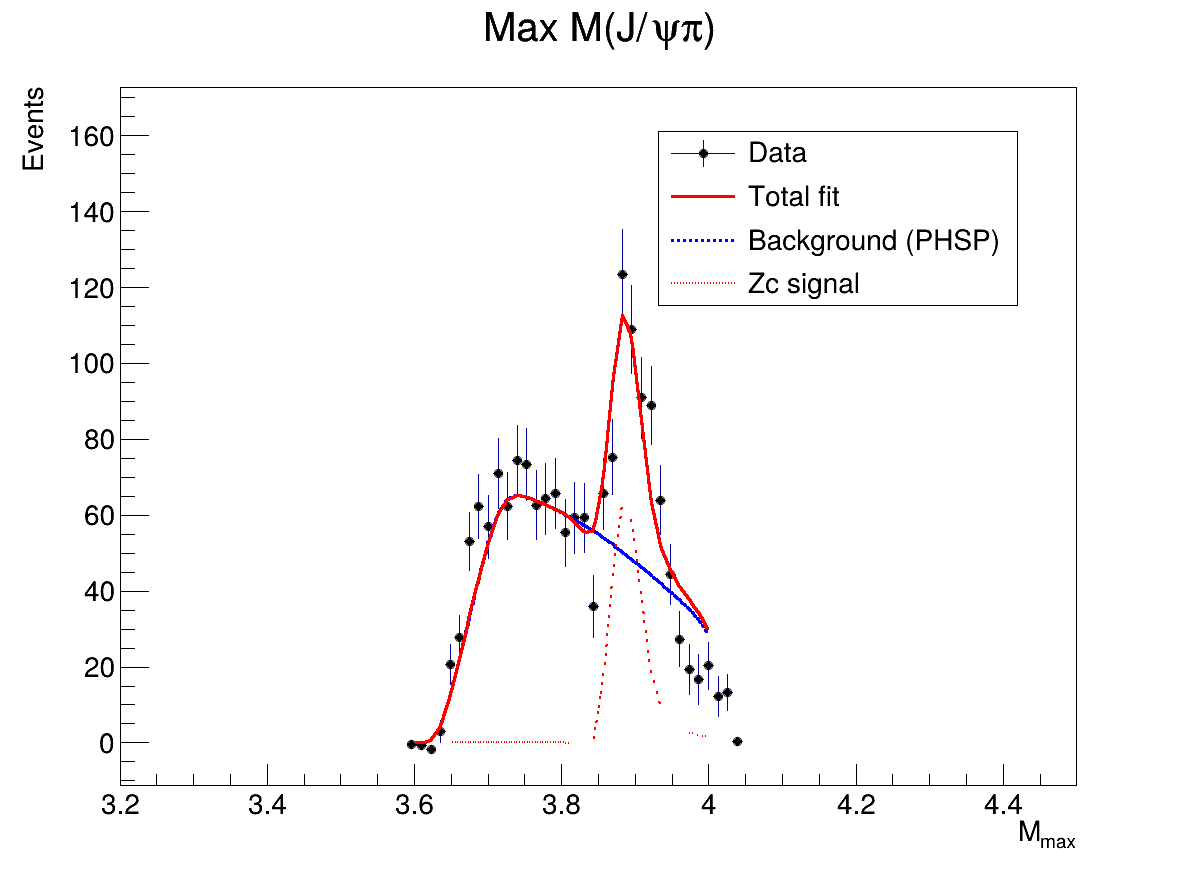
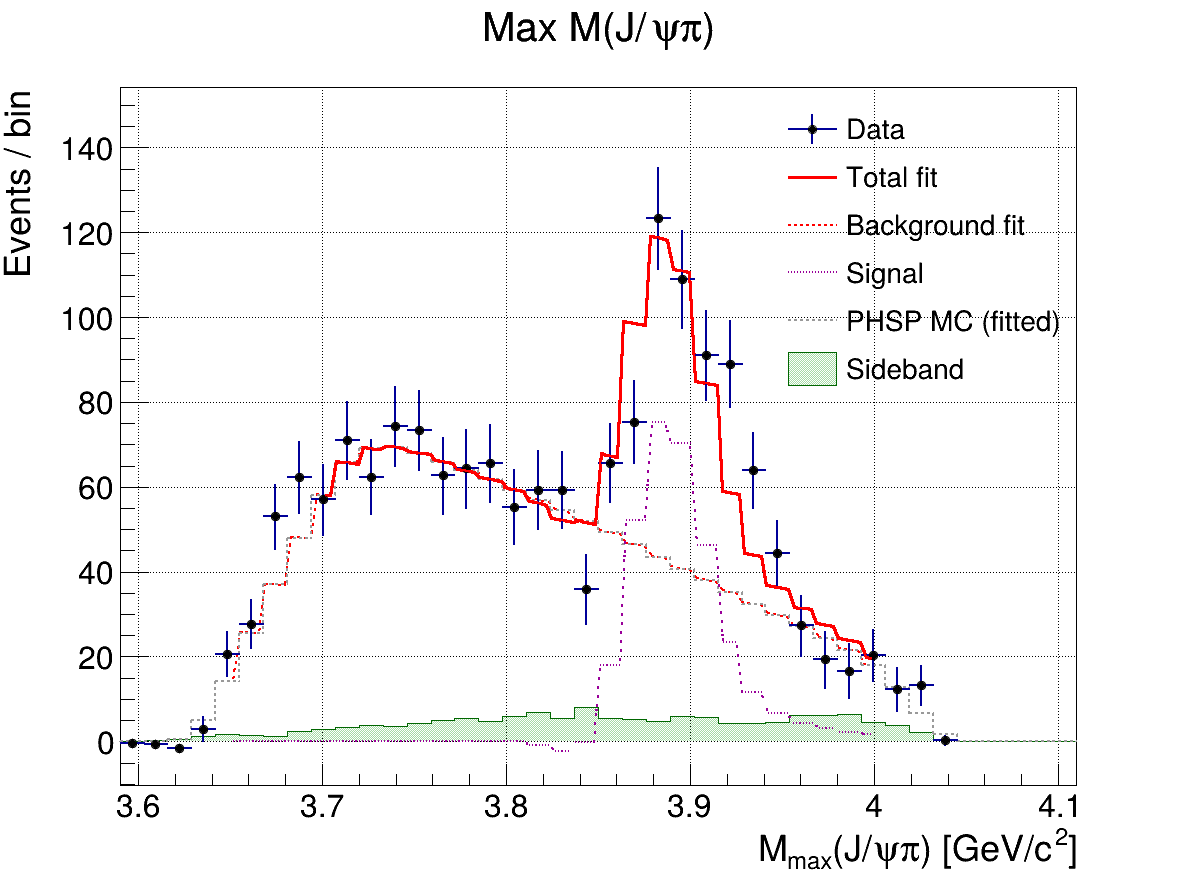
final editing

diff --git a/part2_KinFit/combine.C b/part2_KinFit/combine.C
@@ -11,13 +11,17 @@ TH1D* g_sig  = nullptr;
 // ===== BACKGROUND FUNCTION =====
 double bg_func(double *x, double *p)
 {
-    return p[0]*g_phsp->Interpolate(x[0]);
+    int bin = g_phsp->FindBin(x[0]);
+    double val = g_phsp->GetBinContent(bin);
+    double dx = x[0] - 3.8;
+    return p[0]*val*(1 + p[1]*dx + p[2]*dx*dx);
 }
 
-// ===== SIGNAL FUNCTION =====
 double sig_func(double *x, double *p)
 {
-    return p[0]*g_sig->Interpolate(x[0]);
+    int bin = g_sig->FindBin(x[0]);
+    double val = g_sig->GetBinContent(bin);
+    return p[0]*val;
 }
 void combine()
 {
@@ -30,14 +34,17 @@ void combine()
     TH1D* h_data = (TH1D*)f_data->Get("h_mJpsipi_max_final")->Clone("h_data");
     TH1D* h_phsp = (TH1D*)f_phsp->Get("h_mJpsipi_max_final")->Clone("h_phsp");
     TH1D* h_sig  = (TH1D*)f_sig->Get("h_mJpsipi_max_final")->Clone("h_sig");
+    TH1D* h_sb = (TH1D*)f_data->Get("h_mJpsipi_max_sb")->Clone("h_sb");
 
     h_data->Rebin(2);
     h_phsp->Rebin(2);
     h_sig->Rebin(2);
+    h_sb->Rebin(2);
 
     h_data->SetDirectory(0);
     h_phsp->SetDirectory(0);
     h_sig->SetDirectory(0);
+    h_sb->SetDirectory(0);
 
     // assign globals (IMPORTANT)
     g_phsp = h_phsp;
@@ -47,31 +54,54 @@ void combine()
     h_phsp->Smooth(1);
     h_sig->Smooth(1);
 
+    double data_int = h_data->Integral();
+
+    h_phsp->Scale(data_int / h_phsp->Integral());
+    h_sig->Scale(data_int / h_sig->Integral());
+
     // ===== NORMALIZE MC =====
    // Normalize to unit area ONLY
-    h_phsp->Scale(1.0 / h_phsp->Integral());
-    h_sig->Scale(1.0 / h_sig->Integral());
-
+    //h_phsp->Scale(1.0 / h_phsp->Integral());
+    //h_sig->Scale(1.0 / h_sig->Integral());
+    
     // ===== FIT FUNCTION =====
-    TF1* fit = new TF1("fit",
-    [](double *x, double *p)
-    {
-        double phsp = g_phsp->Interpolate(x[0]);
-        double sig  = g_sig->Interpolate(x[0]);
+   TF1* fit = new TF1("fit",
+[](double *x, double *p)
+{
+    int bin_phsp = g_phsp->FindBin(x[0]);
+    double phsp = g_phsp->GetBinContent(bin_phsp);
 
-        return p[0]*phsp + p[1]*sig;
-    },
-    3.6, 4.0, 4
+    int bin_sig = g_sig->FindBin(x[0]);
+    double sig  = g_sig->GetBinContent(bin_sig);
+
+    // linear tilt added here
+    double dx = x[0] - 3.8;
+    return p[0]*phsp*(1 + p[2]*dx + p[3]*dx*dx) + p[1]*sig;
+},
+3.7, 4.0, 4
 );
 
-    fit->SetParameters(1000, 500);
-    fit->SetParLimits(0, 0, 1e6);
-    fit->SetParLimits(1, 0, 1e6);
+    fit->SetParameters(1, 0.2, 0.0, 0.0);
+    fit->SetParLimits(2, -5, 5);
+    fit->SetParLimits(3, -5, 5);
     // ===== FIT =====
     h_data->Fit(fit, "R");
 
     double a = fit->GetParameter(0);
     double b = fit->GetParameter(1);
+
+    double sb_scale = 0.04 / 0.12;
+    h_sb->Scale(sb_scale);
+
+
+    // style
+    h_phsp->SetLineColor(kRed);
+    h_phsp->SetLineStyle(2);
+    h_phsp->SetLineWidth(2);
+
+    h_sb->SetFillColor(kGreen+1);
+    h_sb->SetFillStyle(3001);
+    h_sb->SetLineColor(kGreen+3);
 
     std::cout << "\n=== FIT RESULTS ===" << std::endl;
     std::cout << "a (PHSP) = " << a << std::endl;
@@ -79,9 +109,9 @@ void combine()
 
 
     // ===== COMPONENT CURVES =====
-    TF1* f_bg = new TF1("f_bg", bg_func, 3.65, 4.0, 1);
+    TF1* f_bg = new TF1("f_bg", bg_func, 3.65, 4.0, 3);
 
-    f_bg->SetParameter(0, a);
+    f_bg->SetParameters(a, fit->GetParameter(2), fit->GetParameter(3));
     f_bg->SetLineColor(kBlue);
     f_bg->SetLineStyle(2);
     f_bg->SetLineWidth(3);
@@ -92,35 +122,103 @@ void combine()
     f_sig_func->SetLineStyle(3);
     f_sig_func->SetLineWidth(2);
 
-    // ===== PLOT =====
+        // ===== PLOT =====
     TCanvas* c = new TCanvas("c","c",1200,900);
 
-    h_data->SetMaximum(1.4 * h_data->GetMaximum());
-    h_data->SetMarkerStyle(20);
-    h_data->SetMarkerSize(1.2);
+    // subtle grid (publication style)
+    c->SetGridx();
+    c->SetGridy();
 
+    // axis formatting
+    h_data->GetXaxis()->SetTitle("M_{max}(J/#psi#pi) [GeV/c^{2}]");
+    h_data->GetYaxis()->SetTitle("Events / bin");
+
+    h_data->GetXaxis()->SetTitleSize(0.045);
+    h_data->GetYaxis()->SetTitleSize(0.045);
+
+    h_data->GetXaxis()->SetLabelSize(0.04);
+    h_data->GetYaxis()->SetLabelSize(0.04);
+
+    h_data->GetYaxis()->SetTitleOffset(1.2);
+
+    // cleaner scaling
+    h_data->SetMaximum(1.25 * h_data->GetMaximum());
+
+    h_data->GetXaxis()->SetRangeUser(3.6, 4.1);
+
+    // data style
+    h_data->SetMarkerStyle(20);
+    h_data->SetMarkerSize(1.0);
+    h_data->SetLineWidth(2);
+
+    // sideband (lighter)
+    h_sb->SetFillColorAlpha(kGreen+2, 0.35);
+    h_sb->SetLineColor(kGreen+3);
+
+    // ===== DRAW ORDER =====
     h_data->Draw("E");
 
+    h_sb->Draw("HIST SAME");
+
+    // ===== PHSP FITTED =====
+    TH1D* h_phsp_fit = (TH1D*)h_phsp->Clone("h_phsp_fit");
+
+    for (int i = 1; i <= h_phsp_fit->GetNbinsX(); i++)
+    {
+        double x = h_phsp_fit->GetBinCenter(i);
+        double dx = x - 3.8;
+
+        double val = g_phsp->GetBinContent(i);
+        double fitted = a * val * (1 + fit->GetParameter(2)*dx + fit->GetParameter(3)*dx*dx);
+
+        h_phsp_fit->SetBinContent(i, fitted);
+    }
+    // background
+    f_bg->SetLineColor(kRed);
+    f_bg->SetLineStyle(2);
+    f_bg->SetLineWidth(2);
     f_bg->Draw("SAME");
 
+    // PHSP = subtle reference
+    h_phsp_fit->SetLineColor(kGray+1);
+    h_phsp_fit->SetLineStyle(2);   // simple dashed
+    h_phsp_fit->SetLineWidth(2);
+    h_phsp_fit->Draw("HIST SAME");
+
+
+    // signal
+    f_sig_func->SetLineColor(kMagenta+2);
+    f_sig_func->SetLineStyle(3);
+    f_sig_func->SetLineWidth(2);
+    f_sig_func->Draw("SAME");
+
+    // total fit (dominant)
     fit->SetLineColor(kRed);
     fit->SetLineWidth(3);
     fit->Draw("SAME");
 
-    f_sig_func->Draw("SAME");
+    h_data->Draw("E SAME");
 
     // ===== LEGEND =====
-    TLegend* leg = new TLegend(0.55,0.65,0.85,0.85);
+    TLegend* leg = new TLegend(0.65,0.55,0.88,0.88);
+    leg->SetBorderSize(0);
+    leg->SetFillStyle(0);
+    leg->SetTextSize(0.035);
+
     leg->AddEntry(h_data,"Data","lep");
     leg->AddEntry(fit,"Total fit","l");
-    leg->AddEntry(f_bg,"Background (PHSP)","l");
-    leg->AddEntry(f_sig_func,"Zc signal","l");
+    leg->AddEntry(f_bg,"Background fit","l");
+    leg->AddEntry(f_sig_func,"Signal","l");
+    leg->AddEntry(h_phsp_fit,"PHSP MC (fitted)","l");
+    leg->AddEntry(h_sb,"Sideband","f");
+
     leg->Draw();
 
     c->SaveAs("Zc_combined_fit.png");
 
     // ===== Zc YIELD =====
-    double N_Zc = b;
+    
+    double N_Zc = b * h_sig->Integral();
 
     std::cout << "\n=== Zc EVENTS FROM FIT ===" << std::endl;
     std::cout << "N_Zc = " << N_Zc << std::endl;

diff --git a/part2_KinFit/ZcAnalysis.C b/part2_KinFit/ZcAnalysis.C
@@ -730,6 +730,7 @@ TFile* fout = new TFile(savePath + "output.root", "RECREATE");
 
 // save all needed histograms
 h_mJpsipi_max_final->Write();
+h_mJpsipi_max_sb->Write();   // 
 h2_dalitz_final->Write();
 h_mJpsipi_final->Write();
 h_m_pipi_final->Write();
